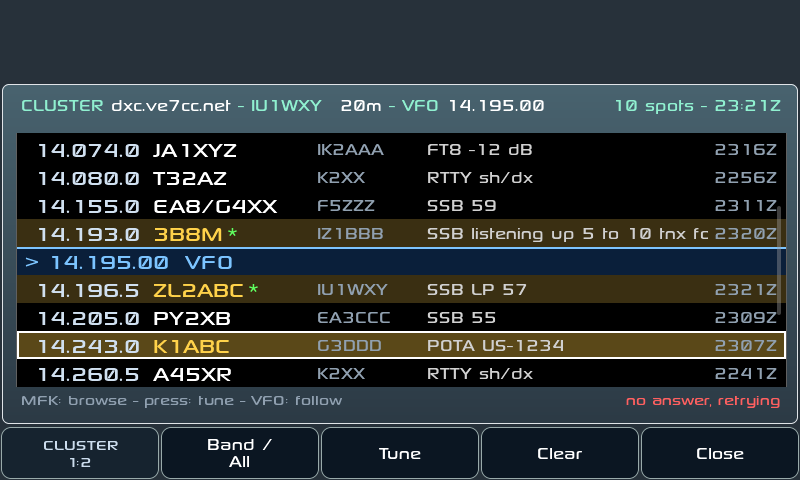
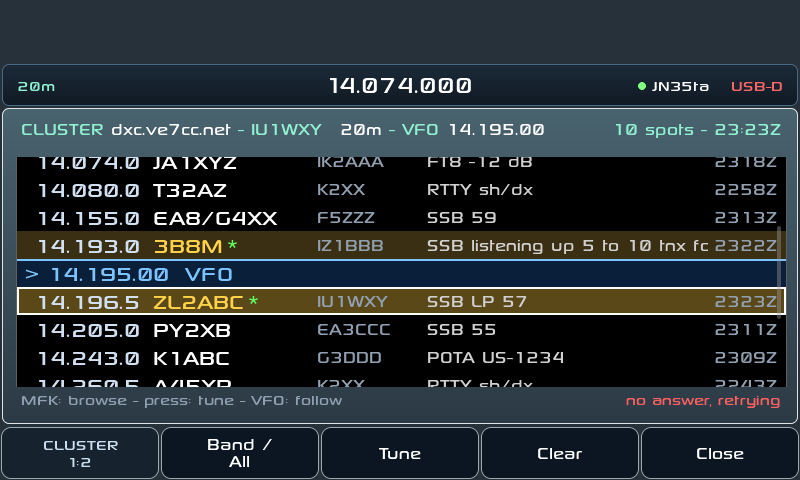
Top bar info row font 20 -> 18

diff --git a/src/styles.c b/src/styles.c
@@ -332,7 +332,7 @@ void styles_init(themes_t theme) {
     lv_style_set_pad_column(&info_row_style, 1);
 
     lv_style_init(&info_item_style);
-    lv_style_set_text_font(&info_item_style, &sony_20);
+    lv_style_set_text_font(&info_item_style, &sony_18);
     lv_style_set_pad_ver(&info_item_style, 1);
     lv_style_set_radius(&info_item_style, 3);
 
